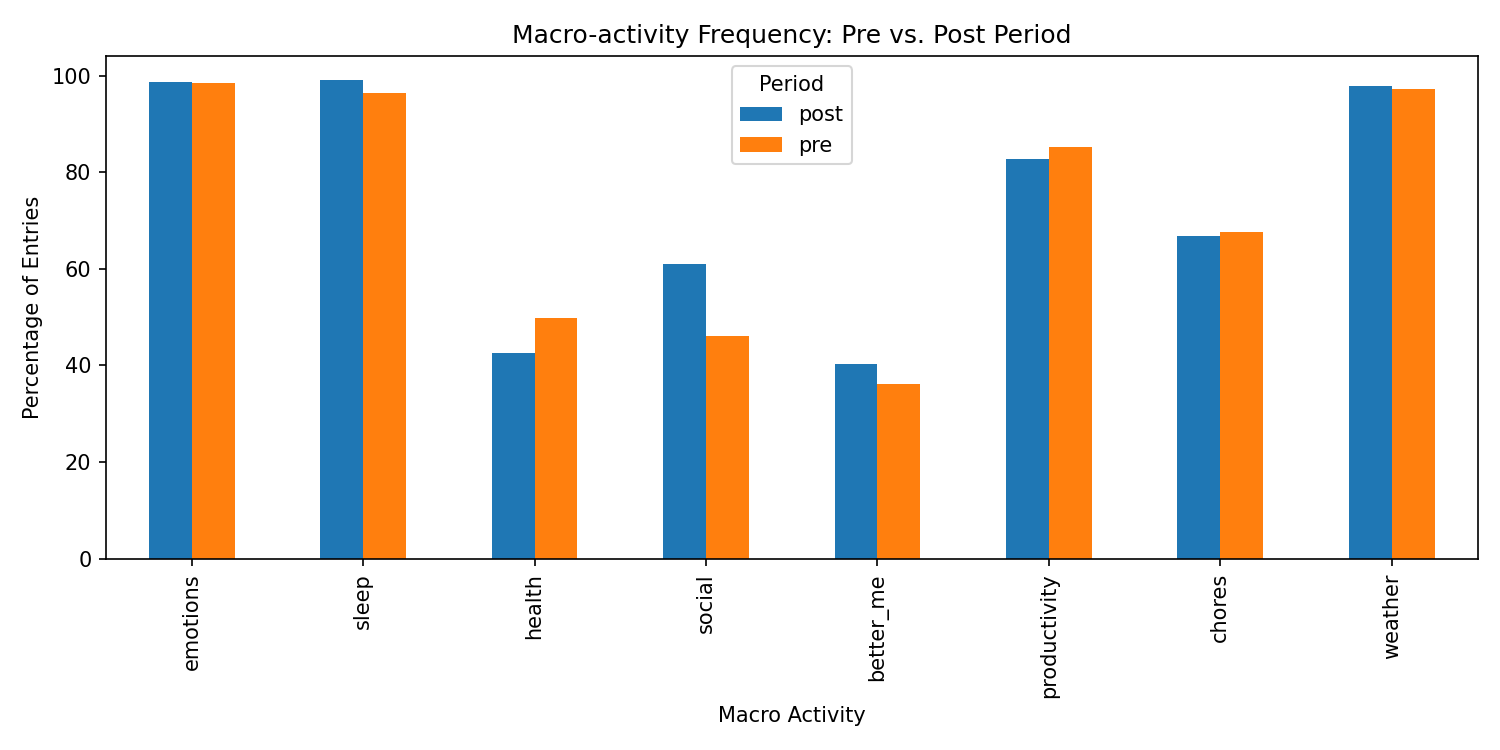
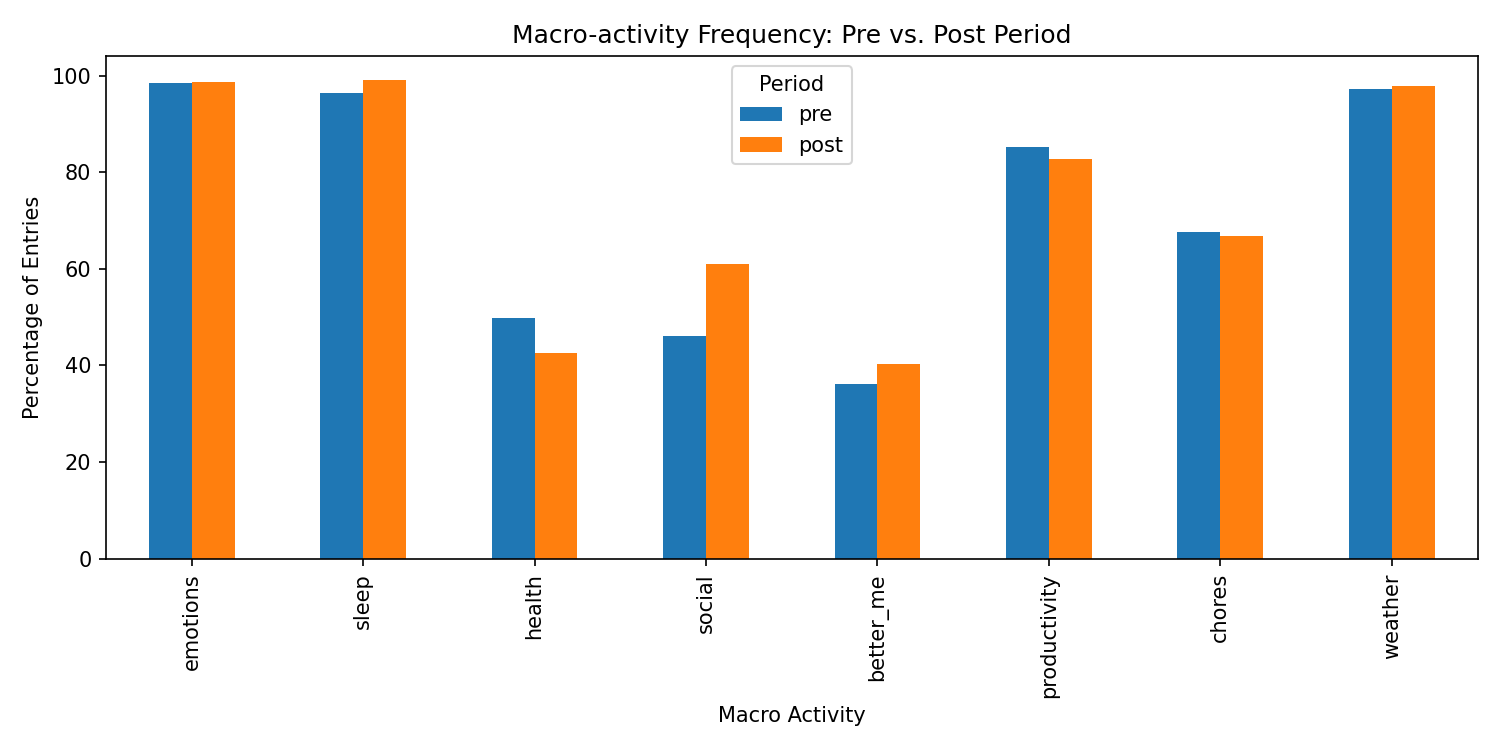
reindex to plot bars for post period data to the right of pre period data

diff --git a/scripts/period_comparison.py b/scripts/period_comparison.py
@@ -22,11 +22,13 @@ print(df_feats["period"].value_counts())
 # 2. Mood distribution, pre vs. post (normalized — periods differ in size)
 print("\n=== Mood distribution by period (%) ===")
 mood_by_period = df_feats.groupby("period")["mood"].value_counts(normalize=True).unstack(fill_value=0) * 100
+mood_by_period = mood_by_period.reindex(["pre", "post"])
 print(mood_by_period)
 
 # 3. Macro-activity frequency, pre vs. post
 print("\n=== Macro-activity frequency by period (%) ===")
 macro_by_period = df_feats.groupby("period")[macro_cols].mean() * 100
+macro_by_period = macro_by_period.reindex(["pre", "post"])
 print(macro_by_period)
 
 # 4. Behavioral micro-activity frequency, pre vs. post — sorted by largest shift
@@ -43,7 +45,7 @@ plt.xlabel("Mood")
 plt.ylabel("Percentage of Entries")
 plt.legend(title="Period")
 plt.tight_layout()
-plt.savefig("outputs/mood_by_period.png", dpi=150)
+plt.savefig("imgs/mood_by_period.png", dpi=150)
 plt.show()
 
 # Plot: macro-activity comparison
@@ -53,5 +55,5 @@ plt.xlabel("Macro Activity")
 plt.ylabel("Percentage of Entries")
 plt.legend(title="Period")
 plt.tight_layout()
-plt.savefig("outputs/macro_by_period.png", dpi=150)
+plt.savefig("imgs/macro_by_period.png", dpi=150)
 plt.show()
